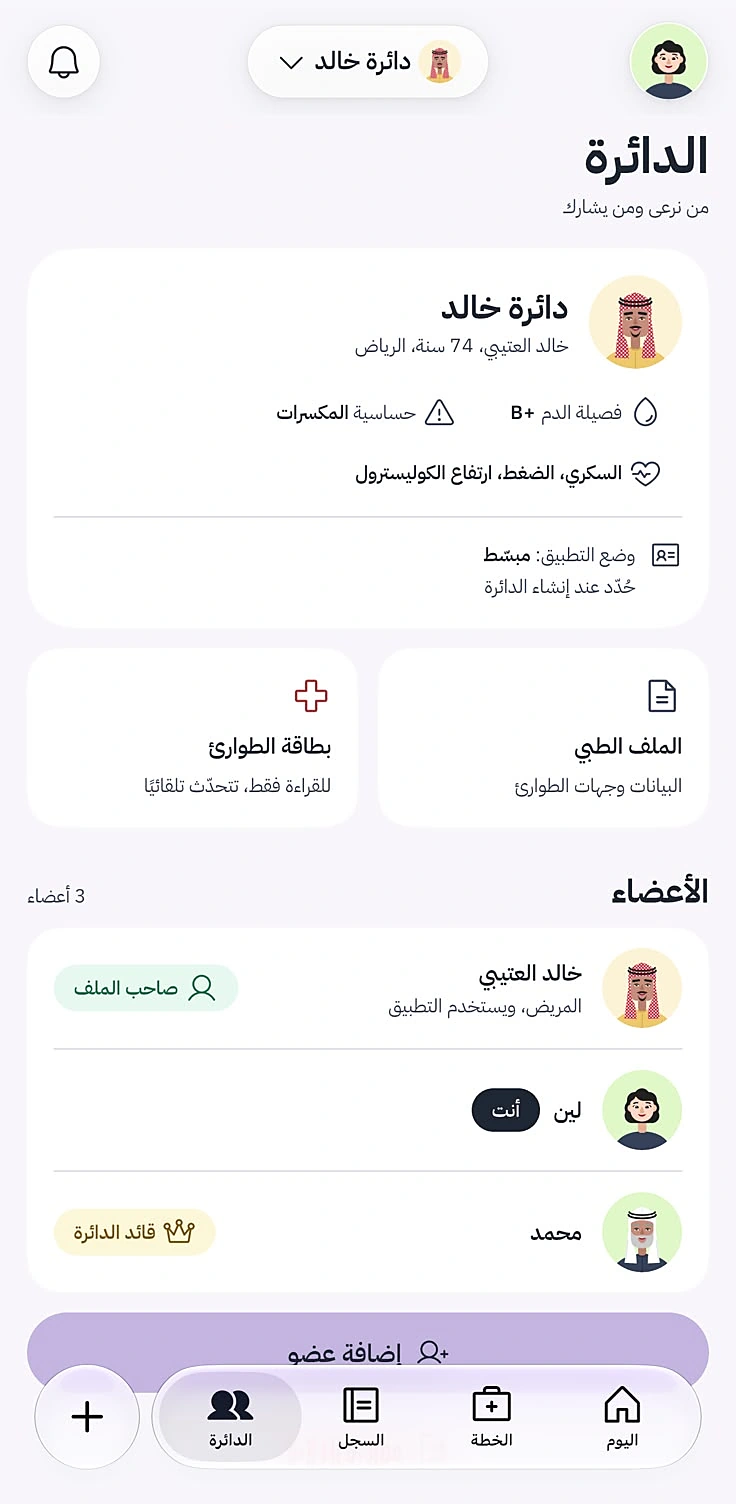
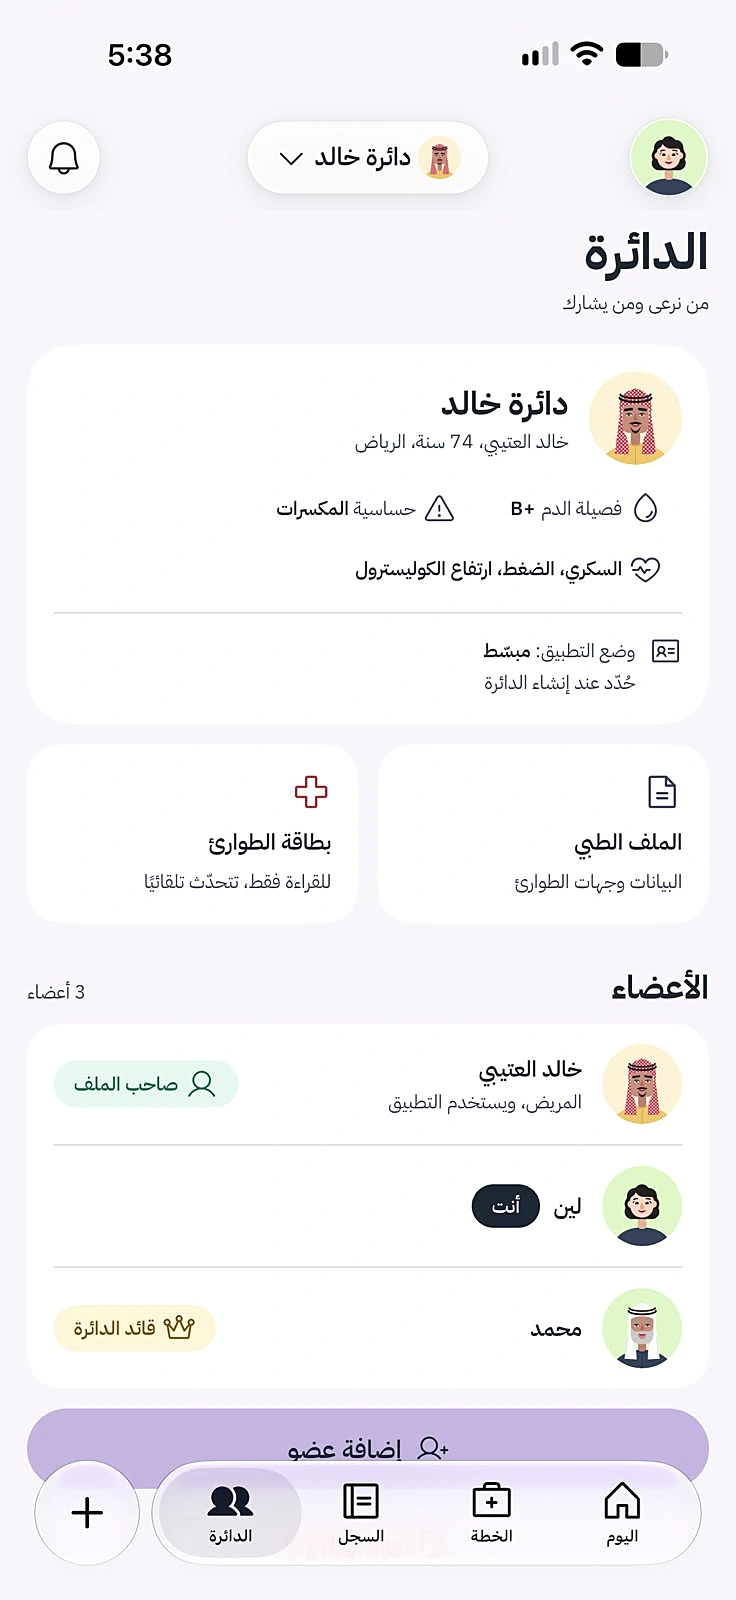
style: liquid glass navigation bar

diff --git a/index.html b/index.html
@@ -9,6 +9,8 @@
   <link rel="preconnect" href="https://fonts.googleapis.com">
   <link rel="preconnect" href="https://fonts.gstatic.com" crossorigin>
   <link href="https://fonts.googleapis.com/css2?family=IBM+Plex+Sans+Arabic:wght@400;500;600&family=Readex+Pro:wght@500;600;700&display=swap" rel="stylesheet">
+  <link rel="icon" type="image/png" href="assets/brand/favicon.png?v=3">
+  <link rel="apple-touch-icon" href="assets/brand/apple-touch-icon.png?v=2">
   <link rel="stylesheet" href="css/style.css">
   <script>document.documentElement.classList.add('js');</script>
 </head>
@@ -18,7 +20,7 @@
   <div class="bg" aria-hidden="true"><span class="b1"></span><span class="b2"></span><span class="b3"></span></div>
 
   <header class="header glass">
-    <a class="brand" href="#top" data-i18n="brand">تفقُد</a>
+    <a class="brand" href="#top"><img src="assets/brand/logo.webp?v=3" alt="" width="36" height="36"><span data-i18n="brand">تفقُد</span></a>
     <nav class="nav">
       <a href="#features" data-i18n="navFeatures">المزايا</a>
       <a href="#demo" data-i18n="navDemo">العرض</a>
@@ -35,6 +37,7 @@
   <main>
     <!-- Intro -->
     <section class="hero" id="top">
+      <img class="hero-logo" src="assets/brand/logo.webp?v=3" alt="" width="120" height="120">
       <h1 class="name" data-i18n="brand">تفقُد</h1>
       <p class="headline" data-i18n="headline">رعاية كل من تحب في مكان واحد</p>
       <p class="sub" data-i18n="sub">تفقُد يجمع العائلة في دائرة واحدة عنايةً للمريض. الأدوية والقياسات والمواعيد في مكان واحد.</p>
@@ -65,25 +68,25 @@
       <div class="scrolly">
         <div class="scrolly-media" aria-hidden="true">
           <div class="iphone phone">
-            <img class="shot is-active" src="assets/screens/circle.webp" alt="" width="736" height="1600">
-            <img class="shot" src="assets/screens/plan.webp" alt="" width="736" height="1600" loading="lazy">
-            <img class="shot" src="assets/screens/simple.webp" alt="" width="736" height="1600" loading="lazy">
+            <img class="shot is-active" src="assets/screens/circle.webp?v=2" alt="" width="736" height="1600">
+            <img class="shot" src="assets/screens/plan.webp?v=2" alt="" width="736" height="1600" loading="lazy">
+            <img class="shot" src="assets/screens/simple.webp?v=2" alt="" width="736" height="1600" loading="lazy">
           </div>
         </div>
 
         <div class="scrolly-steps">
           <article class="step is-active">
-            <div class="iphone step-phone"><img src="assets/screens/circle.webp" data-i18n-alt="altCircle" alt="شاشة الدائرة في تفقُد" width="736" height="1600" loading="lazy"></div>
+            <div class="iphone step-phone"><img src="assets/screens/circle.webp?v=2" data-i18n-alt="altCircle" alt="شاشة الدائرة في تفقُد" width="736" height="1600" loading="lazy"></div>
             <h3 data-i18n="f1Title">دائرة الرعاية</h3>
             <p data-i18n="f1Text">أنشئ دائرة لمن ترعاه، ثم ادعُ من يقوم برعايته برقم الجوال. يوافق المريض على الانضمام، وتحدد أنت ما يراه كل فرد وما يستطيع تعديله.</p>
           </article>
           <article class="step">
-            <div class="iphone step-phone"><img src="assets/screens/plan.webp" data-i18n-alt="altPlan" alt="شاشة الخطة في تفقُد" width="736" height="1600" loading="lazy"></div>
+            <div class="iphone step-phone"><img src="assets/screens/plan.webp?v=2" data-i18n-alt="altPlan" alt="شاشة الخطة في تفقُد" width="736" height="1600" loading="lazy"></div>
             <h3 data-i18n="f2Title">خطة واحدة للجميع</h3>
             <p data-i18n="f2Text">حين تسجّل أختك أن والدتك أخذت دواءها، يصلك ذلك في اللحظة نفسها. لا جرعة تُنسى ولا جرعة تتكرر، والأمر نفسه مع قياسات الضغط والسكر والمواعيد.</p>
           </article>
           <article class="step">
-            <div class="iphone step-phone"><img src="assets/screens/simple.webp" data-i18n-alt="altSimple" alt="سؤال الدواء في الوضع المبسّط" width="736" height="1600" loading="lazy"></div>
+            <div class="iphone step-phone"><img src="assets/screens/simple.webp?v=2" data-i18n-alt="altSimple" alt="سؤال الدواء في الوضع المبسّط" width="736" height="1600" loading="lazy"></div>
             <h3 data-i18n="f3Title">الوضع المبسّط</h3>
             <p data-i18n="f3Text">خط كبير وخيار واحد واضح. يضغط والدك «أخذته»، فتعرف الدائرة كلها.</p>
           </article>

diff --git a/css/style.css b/css/style.css
@@ -54,15 +54,36 @@ a { color: var(--violet); }
   display: flex; align-items: center; justify-content: space-between; gap: 16px;
   padding-block: 8px; padding-inline: 22px 8px; border-radius: 999px;
 }
-.brand { font-size: 1.45rem; font-weight: 700; color: var(--violet); text-decoration: none; }
+.header.glass {
+  /* Liquid glass: clear body, bright rim, light catching the top edge */
+  background: linear-gradient(135deg, rgba(255, 255, 255, .5) 0%, rgba(255, 255, 255, .22) 45%, rgba(255, 255, 255, .38) 100%);
+  backdrop-filter: blur(14px) saturate(200%) brightness(1.06); -webkit-backdrop-filter: blur(14px) saturate(200%) brightness(1.06);
+  border: 1px solid rgba(255, 255, 255, .75);
+  box-shadow:
+    inset 1px 1px 1px rgba(255, 255, 255, .95),
+    inset -1px -1px 1px rgba(255, 255, 255, .45),
+    inset 0 -10px 24px rgba(255, 255, 255, .18),
+    inset 0 10px 18px rgba(255, 255, 255, .25),
+    0 12px 32px rgba(63, 42, 101, .16), 0 2px 6px rgba(63, 42, 101, .08);
+}
+.header.glass::before {
+  content: ""; position: absolute; inset: 0; border-radius: inherit; pointer-events: none;
+  background: radial-gradient(120% 140% at 20% -40%, rgba(255, 255, 255, .7) 0%, rgba(255, 255, 255, 0) 45%),
+              radial-gradient(80% 120% at 95% 140%, rgba(255, 255, 255, .35) 0%, rgba(255, 255, 255, 0) 50%);
+  mix-blend-mode: soft-light;
+}
+.header > * { position: relative; }
+.brand { display: flex; align-items: center; gap: 10px; font-size: 1.45rem; font-weight: 700; color: var(--violet); text-decoration: none; }
+.brand img { width: 36px; height: 36px; }
+.hero-logo { display: block; width: clamp(92px, 10vw, 120px); height: auto; margin: 0 auto 52px; filter: drop-shadow(0 12px 22px rgba(63, 42, 101, .2)); }
 .nav { display: flex; gap: 30px; }
 .nav a { color: var(--ink); text-decoration: none; font-weight: 500; }
 .nav a { padding: 6px 14px; border-radius: 999px; transition: background .3s, color .3s; }
-.nav a:hover, .nav a.active { color: var(--violet); background: rgba(255, 255, 255, .7); }
+.nav a:hover, .nav a.active { color: var(--violet); background: rgba(63, 42, 101, .08); }
 .nav { gap: 6px; }
 .header-end { display: flex; align-items: center; gap: 8px; }
 .lang { font: 500 .95rem "IBM Plex Sans Arabic", sans-serif; color: var(--violet); background: none; border: 0; padding: 9px 14px; border-radius: 999px; cursor: pointer; }
-.lang:hover { background: rgba(255, 255, 255, .7); }
+.lang:hover { background: rgba(63, 42, 101, .08); }
 
 /* Hero */
 .hero { width: var(--width); margin: 0 auto; padding: 70px 0 40px; text-align: center; }
@@ -120,7 +141,7 @@ a { color: var(--violet); }
 .scrolly-media { position: relative; }
 /* iPhone frame: titanium edge, black bezel, Dynamic Island, side buttons */
 .iphone {
-  position: relative; aspect-ratio: 736 / 1600; padding: 11px; border-radius: 17% / 8%;
+  position: relative; padding: 11px; border-radius: 17% / 8%;
   background: #0B0B0F;
   box-shadow:
     0 0 0 2px #D9D4CB, 0 0 0 4px #A8A39A, 0 0 0 5px #E9E5DE,
@@ -135,12 +156,13 @@ a { color: var(--violet); }
   background: linear-gradient(#E3DED6, #A8A39A);
   box-shadow: 0 -64px 0 0 #C9C4BB;
 }
-.iphone img { display: block; width: 100%; height: 100%; object-fit: cover; border-radius: 14% / 6.6%; }
+.iphone img { display: block; width: 100%; height: auto; border-radius: 13% / 6%; }
 
 /* Sticky phone in the features section; vh values first for browsers without svh */
 .phone { position: sticky; top: calc(50vh - 300px); width: 280px; top: max(100px, calc(50svh - 300px)); width: min(280px, calc((100svh - 150px) * 736 / 1600)); margin-inline: auto; }
-.phone .shot { position: absolute; inset: 11px; width: calc(100% - 22px); height: calc(100% - 22px); opacity: 0; transform: scale(.97); transition: opacity .6s ease, transform .6s ease; }
+.phone .shot { position: absolute; top: 11px; left: 11px; width: calc(100% - 22px); height: auto; opacity: 0; transform: scale(.97); transition: opacity .6s ease, transform .6s ease; }
 .phone .shot.is-active { opacity: 1; transform: none; }
+.phone .shot:first-child { position: relative; top: 0; left: 0; width: 100%; }
 .step { min-height: 78vh; min-height: 78svh; display: flex; flex-direction: column; justify-content: center; opacity: .3; transition: opacity .5s ease; }
 .step.is-active { opacity: 1; }
 .step h3 { font-size: clamp(1.8rem, 3.4vw, 2.5rem); color: var(--violet); margin-bottom: 14px; }
@@ -279,4 +301,5 @@ a { color: var(--violet); }
 @media (max-height: 500px) and (orientation: landscape) {
   .hero { padding-top: 30px; }
   .circle { width: min(420px, 100%); }
-  .step { min-h
+  .step { min-height: 0; }
+}

diff --git a/README.md b/README.md
@@ -1,3 +1,5 @@
+<img src="assets/brand/logo.png" alt="Tafaqod logo" width="96">
+
 # Tafaqod Landing Page | صفحة تفقُد
 
 The landing page for [Tafaqod](https://github.com/Alanoud-Aloraydi/TFAQUD-Portfolio), our Holberton School Portfolio Project. Arabic by default, with an English switch.
